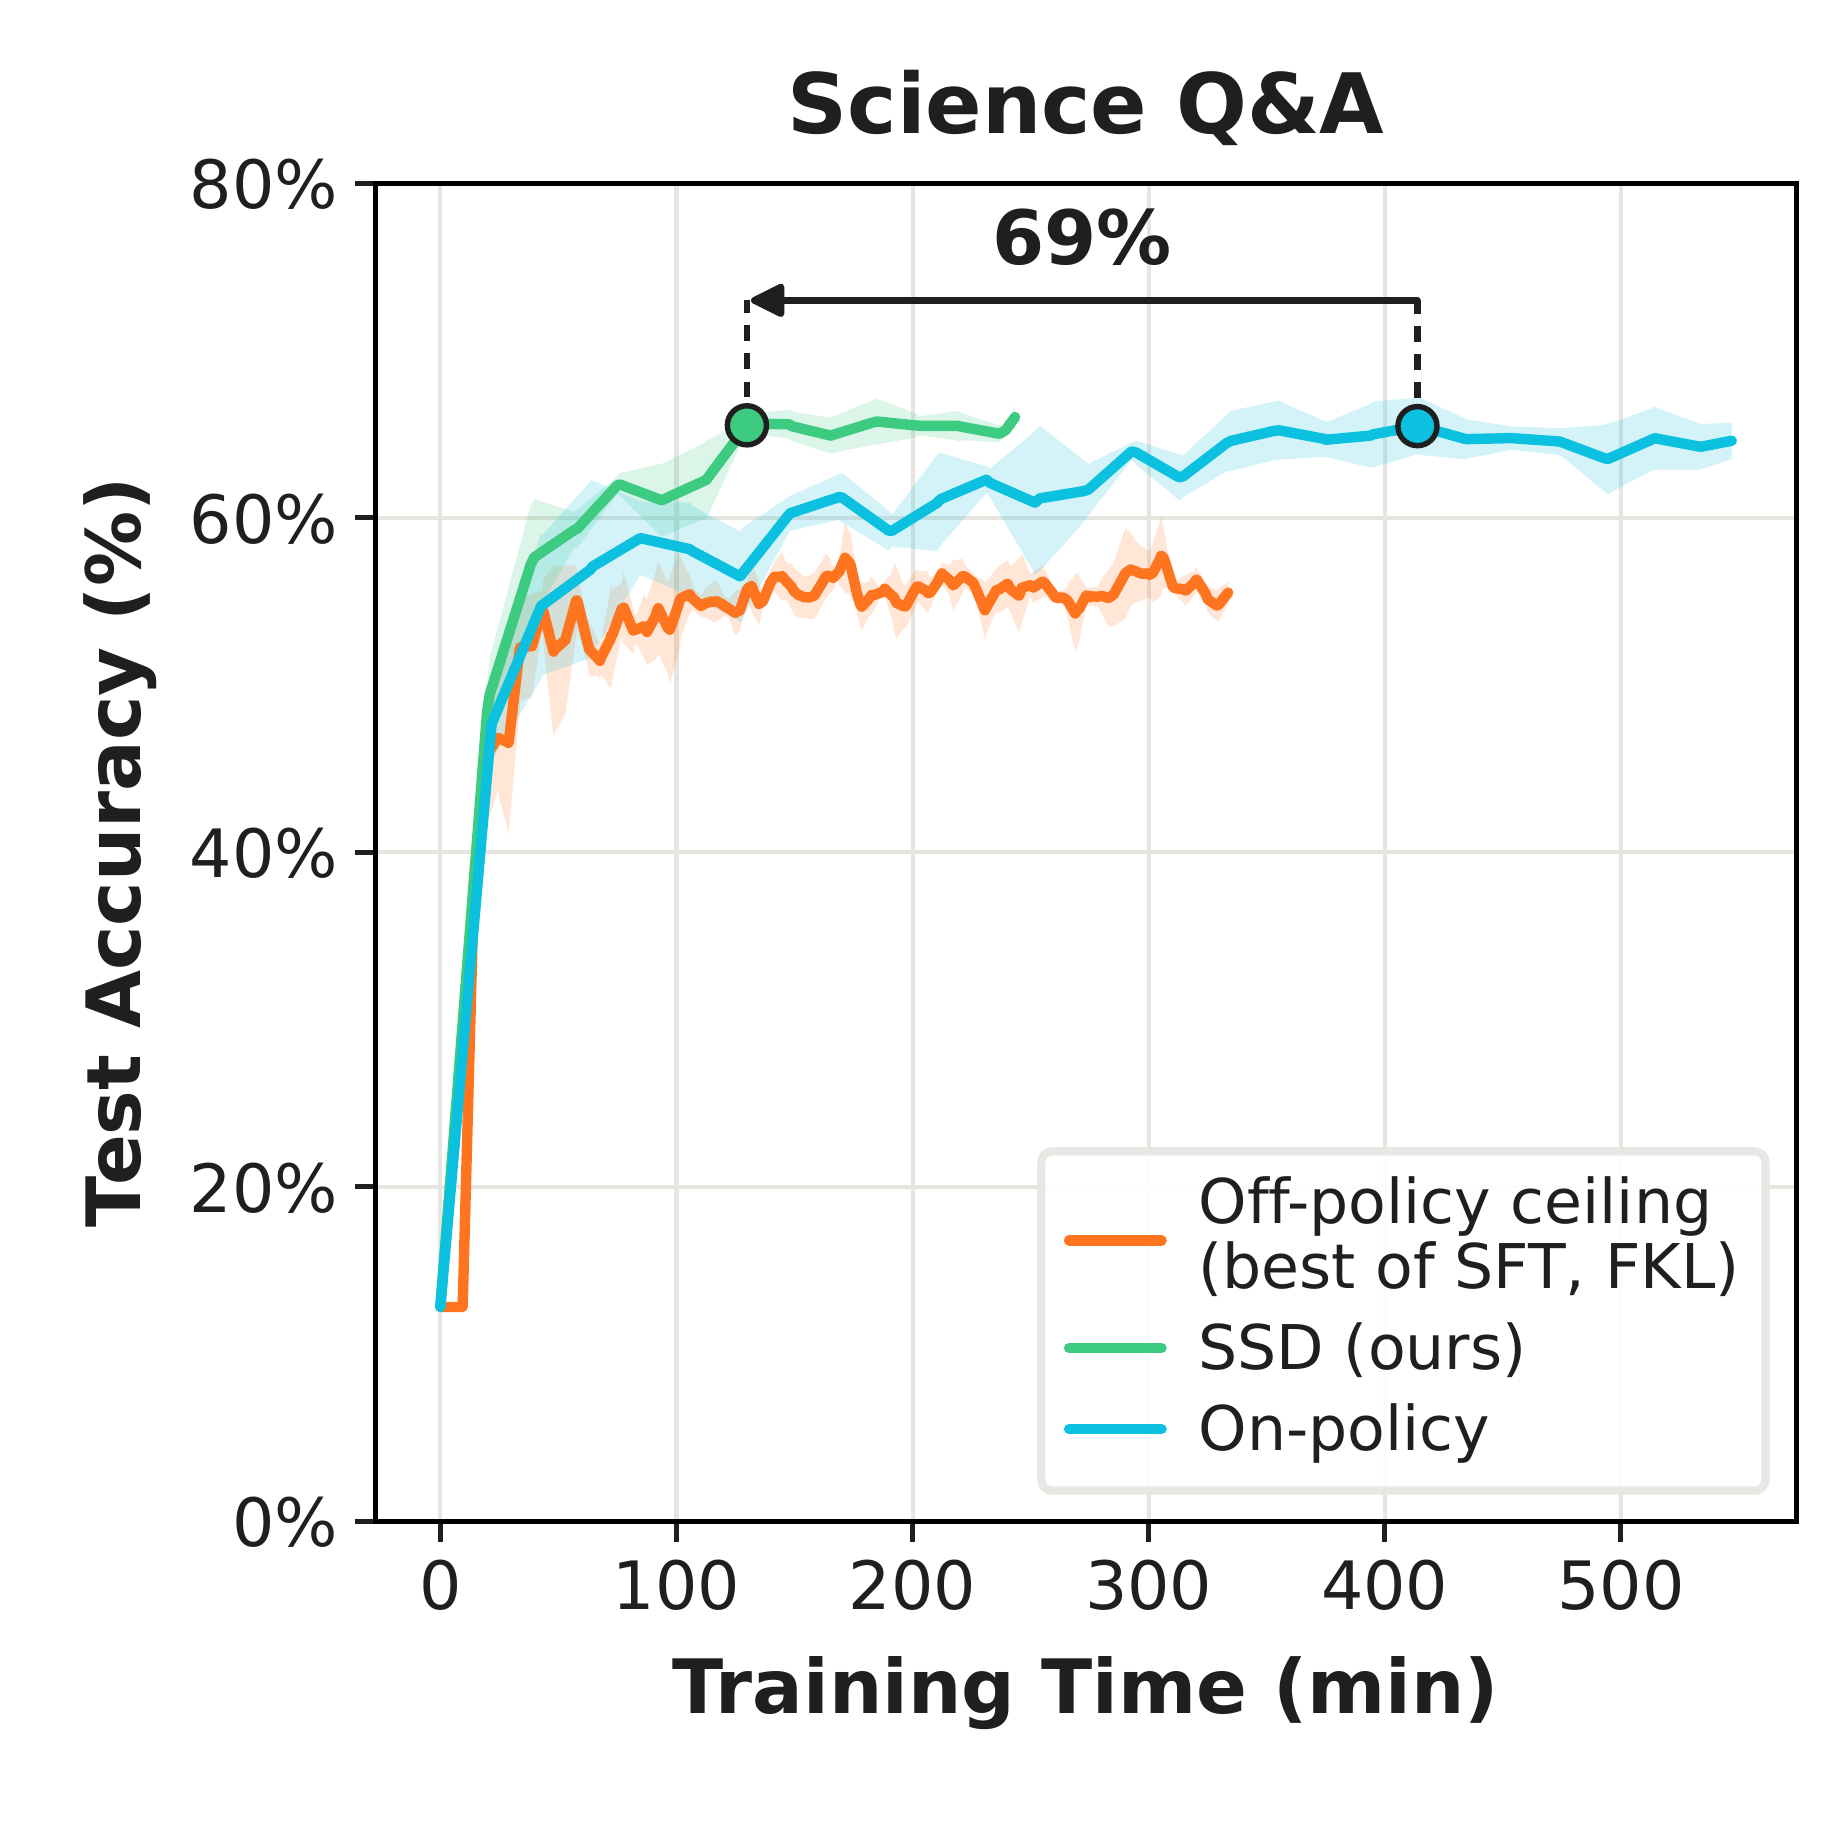
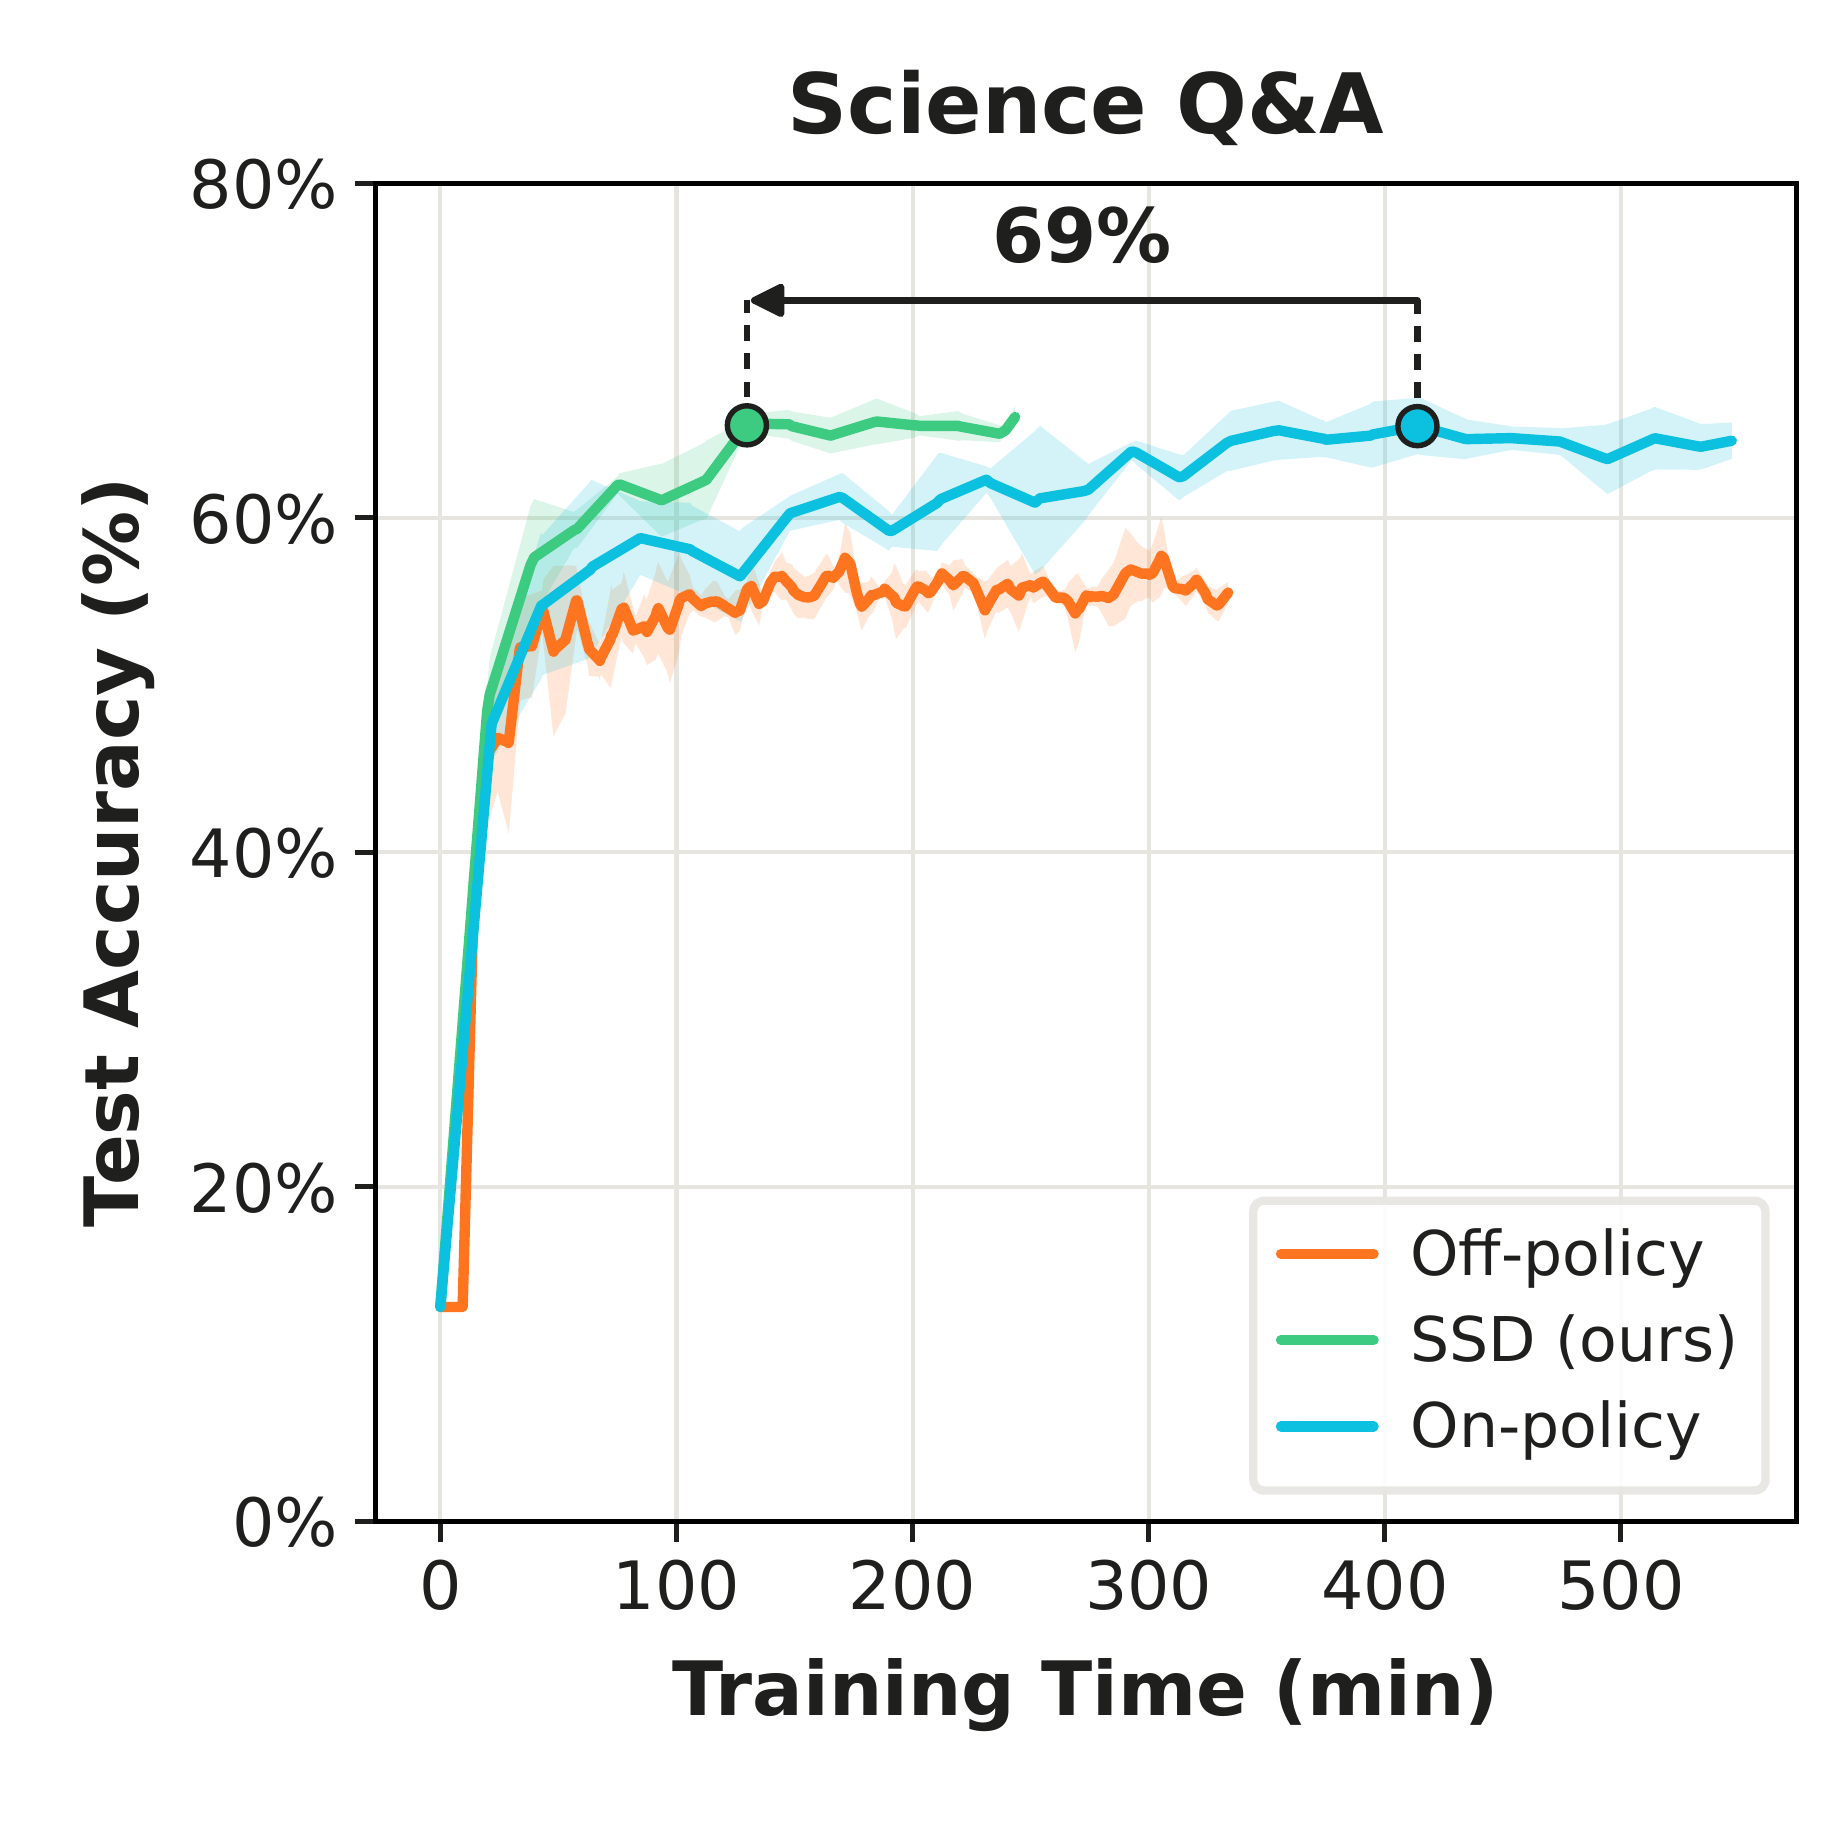
README: arXiv paper link and citation (verbatim from arxiv.org/bibtex/2611.12016); training-time figure updated to the camera-ready Fig. 5

diff --git a/README.md b/README.md
@@ -12,7 +12,7 @@ Speculative Self-Distillation
 </p>
 
 <p align="center">
-| 🌐 <a href="https://ssd-distill.github.io/"><b>Project Page</b></a> | 🛠 <a href="#reproducing-the-paper"><b>Reproduce</b></a> | 📚 <a href="#citation"><b>Citation</b></a> |
+| 📄 <a href="https://arxiv.org/abs/2611.12016"><b>Paper</b></a> | 🌐 <a href="https://ssd-distill.github.io/"><b>Project Page</b></a> | 🛠 <a href="#reproducing-the-paper"><b>Reproduce</b></a> | 📚 <a href="#citation"><b>Citation</b></a> |
 </p>
 
 🔥 **Speculative Self-Distillation (SSD)** trains a language model to internalize
@@ -186,12 +186,14 @@ In every task the teacher's privileged context is the question's reference answe
 ## Citation
 
 ```bibtex
-@inproceedings{talaei2026ssd,
-  title     = {Speculative Self-Distillation enables Efficient Knowledge Internalization},
-  author    = {Talaei, Shayan and Bhatia, Agam and Soltani Moakhar, Arshia and
-               H{\"u}botter, Jonas and Saberi, Amin and Mirhoseini, Azalia},
-  booktitle = {Advances in Neural Information Processing Systems},
-  year      = {2026}
+@misc{talaei2026speculativeselfdistillationenablesefficient,
+      title={Speculative Self-Distillation enables Efficient Knowledge Internalization}, 
+      author={Shayan Talaei and Agam Bhatia and Arshia Soltani Moakhar and Jonas Hübotter and Amin Saberi and Azalia Mirhoseini},
+      year={2026},
+      eprint={2611.12016},
+      archivePrefix={arXiv},
+      primaryClass={cs.LG},
+      url={https://arxiv.org/abs/2611.12016}, 
 }
 ```
 
